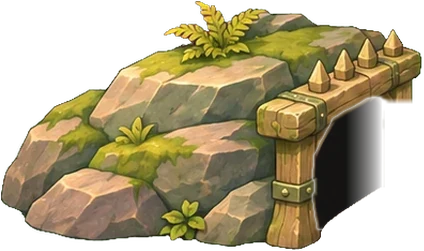
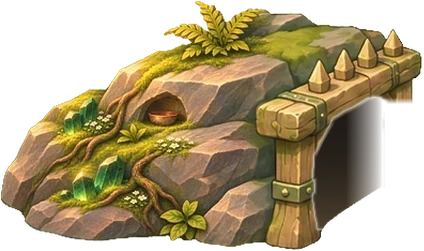
night(codex): round 17

diff --git a/tools/map-compose/test_ground.py b/tools/map-compose/test_ground.py
@@ -1,5 +1,6 @@
 """Regression checks for map dressing. Run with python3 -B tools/map-compose/test_ground.py."""
 import json
+import math
 import unittest
 from pathlib import Path
 
@@ -17,6 +18,39 @@ from ground import windblown_road_coverage
 
 
 class GroundTests(unittest.TestCase):
+    def test_emerald_crossings_have_dry_landings_and_span_open_water(self):
+        compose = Path(__file__).resolve().parent
+        root = compose.parents[1]
+        recipe = json.loads((compose / 'campaign.json').read_text())['i04']
+        layout = json.loads((root / 'src/data/levels2d/i04.json').read_text())
+        kit = root / 'design/art-2d/v2/biomes' / recipe['biome']
+        with Image.open(kit / 'land-i04.webp') as mask:
+            land = mask.convert('L').resize(tuple(layout['imageSize']), Image.Resampling.NEAREST)
+        # All the rings sit on the original turf, including the two above the spring.
+        rings = Image.new('L', land.size)
+        rx = layout['plotRadiusPx']
+        with Image.open(root / 'design/art-2d/v2/assets/plot-base.png') as base:
+            ry = rx * base.height / base.width
+        draw = ImageDraw.Draw(rings)
+        for x, y in layout['plots']:
+            draw.ellipse((x-rx-4, y-ry-4, x+rx+4, y+ry+4), fill=255)
+        self.assertIsNone(ImageChops.subtract(rings, land).getbbox())
+        # Probe the timber feet. A centreline check missed the post beside the waterfall.
+        landings = {
+            'rope-span': [(0.21, .14), (.75, .16), (.12, .92), (.81, .94)],
+            'moss-steps': [(.5, .10), (.5, .90)],
+            'clapper-span': [(.5, .10), (.5, .90)],
+        }
+        self.assertEqual({crossing[0] for crossing in recipe['crossings']}, landings.keys())
+        for name, x, y, length, width, angle in recipe['crossings']:
+            cosine, sine = math.cos(math.radians(angle)), math.sin(math.radians(angle))
+            with self.subTest(crossing=name), Image.open(kit / f'landmark-{name}.webp') as paint:
+                for u, v in [*landings[name], (.5, .5)]:
+                    dx, dy = (u - .5) * width, (v - .5) * length
+                    point = (round(x + dx*cosine + dy*sine), round(y - dx*sine + dy*cosine))
+                    self.assertGreater(paint.getpixel((round(u*(paint.width-1)), round(v*(paint.height-1))))[3], 128)
+                    self.assertEqual(land.getpixel(point) >= 128, (u, v) in landings[name], point)
+
     def test_cay_boats_float_alongside_land_accessible_jetties(self):
         compose = Path(__file__).resolve().parent
         recipe = json.loads((compose / 'campaign.json').read_text())['i02']

diff --git a/tools/map-compose/compose.py b/tools/map-compose/compose.py
@@ -694,7 +694,8 @@ if dressing:
     del plate
 
 # Mask of water and chasm banks in the terrain painting. Keep rooted props on land.
-land_mask = load(f'land-{L["id"]}.webp').convert('L') if dressing.get('islet') else None
+land_mask = (load(f'land-{L["id"]}.webp').convert('L')
+             if dressing.get('islet') or dressing.get('waterCrossings') else None)
 
 
 def on_land(x, y):
@@ -706,7 +707,7 @@ def on_land(x, y):
 
 
 # Give structures that stand in tidal water or over a rift a painted foundation.
-if land_mask:
+if dressing.get('islet'):
     islet = load(dressing['islet'])
 
     def foundation(x, y, width, height, force=False):
@@ -768,6 +769,9 @@ keep.trim_road(road_hard, S, spl_paths)
 # Use the master's noise lattice at both scales so the painted contour stays in place.
 noise_scale = S / 2 if native_3x else 1
 road_mask = ragged_mask(road_hard, rw * 0.05, max(4, round(rw * 0.16 / noise_scale)), 0.22, SEED + 21, aa=1.1 if native_3x else 1.1 * W / 3692, noise_scale=noise_scale)
+if dressing.get('waterCrossings'):
+    # The dirt ends at each bank. Gaps between the stones and rope slats show the stream.
+    road_mask = ImageChops.multiply(road_mask, land_mask.resize((W, H), Image.Resampling.BILINEAR))
 road_material = load(dressing.get('roadMaterial', 'tex-dirt.png'))
 if dressing.get('roadPlate'):
     dirt = road_material.resize((W, H), Image.Resampling.BICUBIC)
@@ -836,7 +840,11 @@ for name, start, end, above, below, curb in dressing.get('archBridges', []):
 for name, x, y, length, width, angle in dressing.get('crossings', []):
     deck = load(f'landmark-{name}.webp').resize((round(width * S), round(length * S)), Image.Resampling.LANCZOS)
     deck = deck.rotate(angle, Image.Resampling.BICUBIC, expand=True)
-    ground.alpha_composite(deck, (round(x * S - deck.width / 2), round(y * S - deck.height / 2)))
+    left, top = round(x * S - deck.width / 2), round(y * S - deck.height / 2)
+    if dressing.get('waterCrossings'):
+        shade = deck.getchannel('A').filter(ImageFilter.GaussianBlur(2 * S)).point(lambda v: round(v * .36))
+        ground.paste((24, 43, 35, 255), (left + round(2 * S), top + round(4 * S)), shade)
+    ground.alpha_composite(deck, (left, top))
     # Prop rejection uses the same rotated bounding box as the master, including its pixel rounding.
     if native_3x:
         ref = Image.new('L', (round(width * 2), round(length * 2))).rotate(angle, expand=True)

diff --git a/docs/overnight/PROGRESS-codex.md b/docs/overnight/PROGRESS-codex.md
@@ -1,5 +1,28 @@
 # Content overnight · codex
 
+## Round 17 · 05:12–05:32 UTC · codex/night
+
+Started from `643bb5d`. The overnight runner owns the commit.
+
+### Done
+
+- **i04 Emerald Stepping Stones.** A spring inside the eastern bend feeds the waterfall at the west ledge. The existing road crosses it on a lantern-hung rope bridge, four separate stepping stones and a three-slab clapper bridge. Water shows through the gaps. The first fit put timber posts at the waterline. Lengthened the span onto both banks and fitted the stream around plots 8, 9 and 13. The new regression checks all four posts, both stone landings, open water at midspan and the full footprint of every ring. [Whole island and native 2× details](maps-round17-terraces.jpg)
+- A flowering oak grows around the emeralds from the intro. The rock at the west entrance carries a copper offering bowl. A pilgrim footpath leads up the steps of the birch shrine and a second path runs around the keep to the fire basket from the outro. A detail review caught scatter on the shrine approach. Reserved both paths and turned the last pavers into the steps. [Source paintings, briefs and rebuild](../../design/art-2d/v2/biomes/terraces/emerald-stepping-stones.md)
+
+### Verification
+
+- Re-baked with `--keep-plots`. All 25 layout files match the starting revision byte for byte and pass geometry checks. The final two checks were rerun after the batch was interrupted. Decoded all 100 maps and 132 gate fronts. The four i04 front alpha channels match the originals. A clean second bake reproduced all eight i04 shipping files byte for byte. The eight grew by 2,419,130 bytes, including 296,922 for the 1.5× map used on phone.
+- In First Crossing, two archers and a cannon defended the lower road. A grunt reached the rope bridge 314 simulation steps after the horn, a grunt reached the stepping stones at step 482 and a runner reached the slab bridge at step 616. Also played Stepping Stones and Emerald Dreadnoughts. The finale had 35 active enemies and 16 towers. All 15 before/after pairs matched on simulation state, actor positions, towers, lives, gold, camera and texture selection. Desktop DPR 2 loaded the native 3× map. A separate phone run with Bran checked the hero toolbar beside the waterfall. [1920 × 1080 at DPR 1 and 2, with native combat crops](maps-round17-desktop.jpg) · [844 × 390 phone at DPR 3](maps-round17-phone.jpg)
[1 lines of base64/hex data omitted]
+
+### Requests for other agents
+
+Chapter two still awaits the shared enemy roster, clip and death integration, stories, Turkish entries and i21 horn placement detailed below. This round uses the existing island name and introduces scenery only.
+
+### Next round
+
+Inspect i11 Galewatch Spires. The story shows sheer rock needles carrying wind banners above a bright cloud gorge. In battle the plot foundations read as separate pink boulders against a flat grey band. Fit the ravine to the fixed pads and the western crossing, and check the spires against occupied towers on phone. If shared chapter registration lands first, verify the production unlock, stories and first kills.
+
 ## Round 16 · 04:45–05:12 UTC · codex/night
 
 Started from `a047657`. The overnight runner owns the commit.

diff --git a/design/art-2d/v2/biomes/terraces/emerald-stepping-stones.md b/design/art-2d/v2/biomes/terraces/emerald-stepping-stones.md
@@ -1,0 +1,26 @@
+# Emerald Stepping Stones
+
+The spring rises inside the eastern bend. Its stream passes under a clapper bridge, through the stepping stones and under the lantern bridge on its way to the waterfall. The grove from the intro stands south of the stream. The keeper tends the fire beside the castle in the outro.
+
+## Source paintings
+
+The built-in image generator supplied the paintings. The finished kit uses a common light from the upper left. The terrain, measurements and placements are in the island’s 1846 × 852 layout coordinates.
+
+| Source | Painting brief and placement |
+| --- | --- |
+| `terrain-i04.webp`, `land-i04.webp` | Follow the surveyed stream from the cleft to the western edge. Paint two shallow waterfalls, amber gravel in the shallows, mossy limestone shelves, white saxifrage and open pasture. Register the banks around the complete footprints of plots 8, 9 and 13. The mask traces the waterline in the fitted painting. |
+| `landmark-rope-span.webp` | Paint a north–south suspension bridge with rope lashings, four timber posts and brass oil lanterns outside the walking surface. Its upper posts stand on the ledge above the whitewater. The lower pair sits on the near bank. |
+| `landmark-moss-steps.webp`, `landmark-clapper-span.webp` | Paint four separate broad, low stepping stones with wet edges. For the next crossing, set three long limestone slabs on squat piers. Both paintings follow the angle of the road. The compositor ends the gravel at the bank and casts a short shadow beneath each crossing so the water shows between the stones. |
+| `landmark-emerald-oak.webp`, `landmark-blossom-drift.webp` | Bend an old flowering oak around a cluster of translucent green crystals. Keep the roots visible. Place a broken crescent of fallen petals, limestone chips and three worn pavers beneath the canopy. |
+| `landmark-lantern-shrine.webp`, `landmark-grove-beacon.webp` | Give the eastern shrine a little lit doorway, offering dish, birch and steps facing southwest. Set the keeper’s iron fire basket on a low drum beside split wood. Bake two narrow approaches from a separate painting of irregular, moss-bound pavers into the terrain. The paths lead to the shrine steps and round the keep to the fire. `dressing-i04.webp` keeps scatter off both walks. |
+| `grove-postern-e.webp` | Paint small mineral outcrops, saxifrage and an offering bowl among the roots and moss on the entrance mound. Fit this finish to the rock left of the original oak jambs. |
+| `tex-pilgrim-road.webp`, `silver-birches.webp` | Half bury warm limestone and occasional slate in compacted pilgrim-road gravel. Quilt sections of the surface and soften the shoulders. Paint three slender young birches with an open canopy and fern at their roots for the field edges. |
+
+## Rebuild
+
+```sh
+/usr/bin/python3 -B tools/map-compose/rebake_all.py i04
+/usr/bin/python3 -B tools/map-compose/test_ground.py
+```
+
+The crossing regression checks the four rope posts and both ends of each stone crossing against the bank mask. It also checks open water at midspan and dry turf under every tower ring and its contact shadow.
